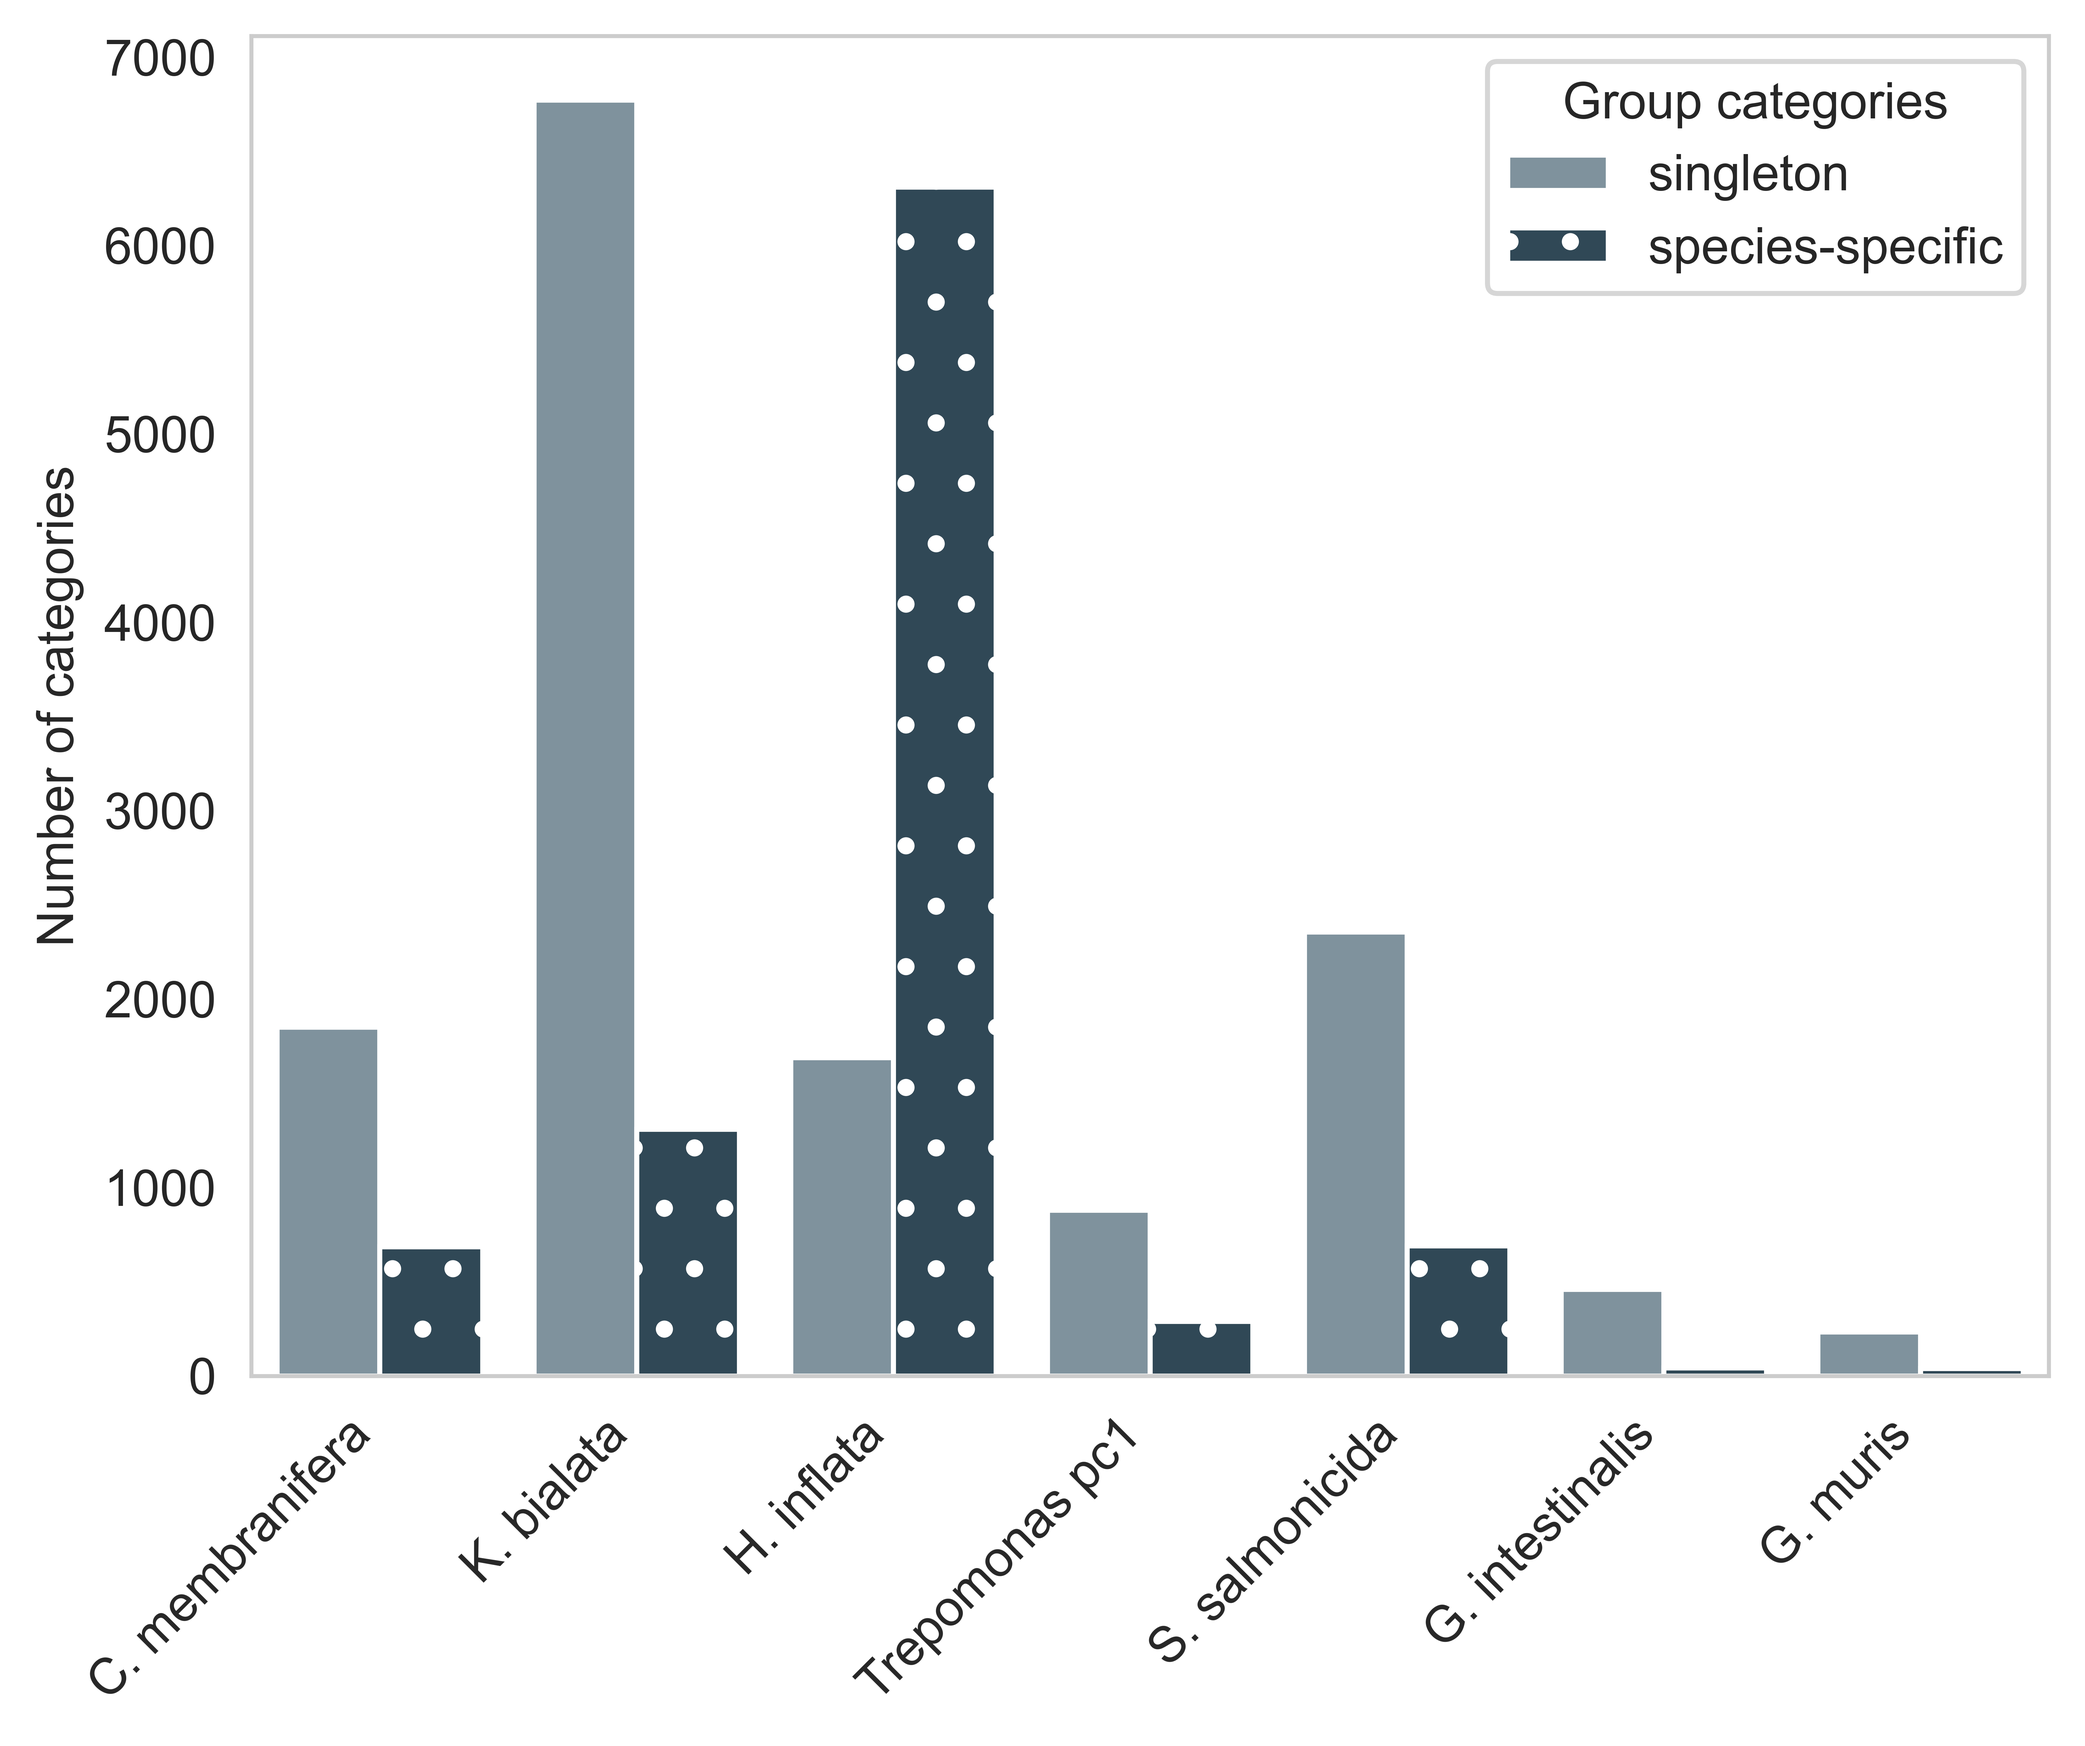
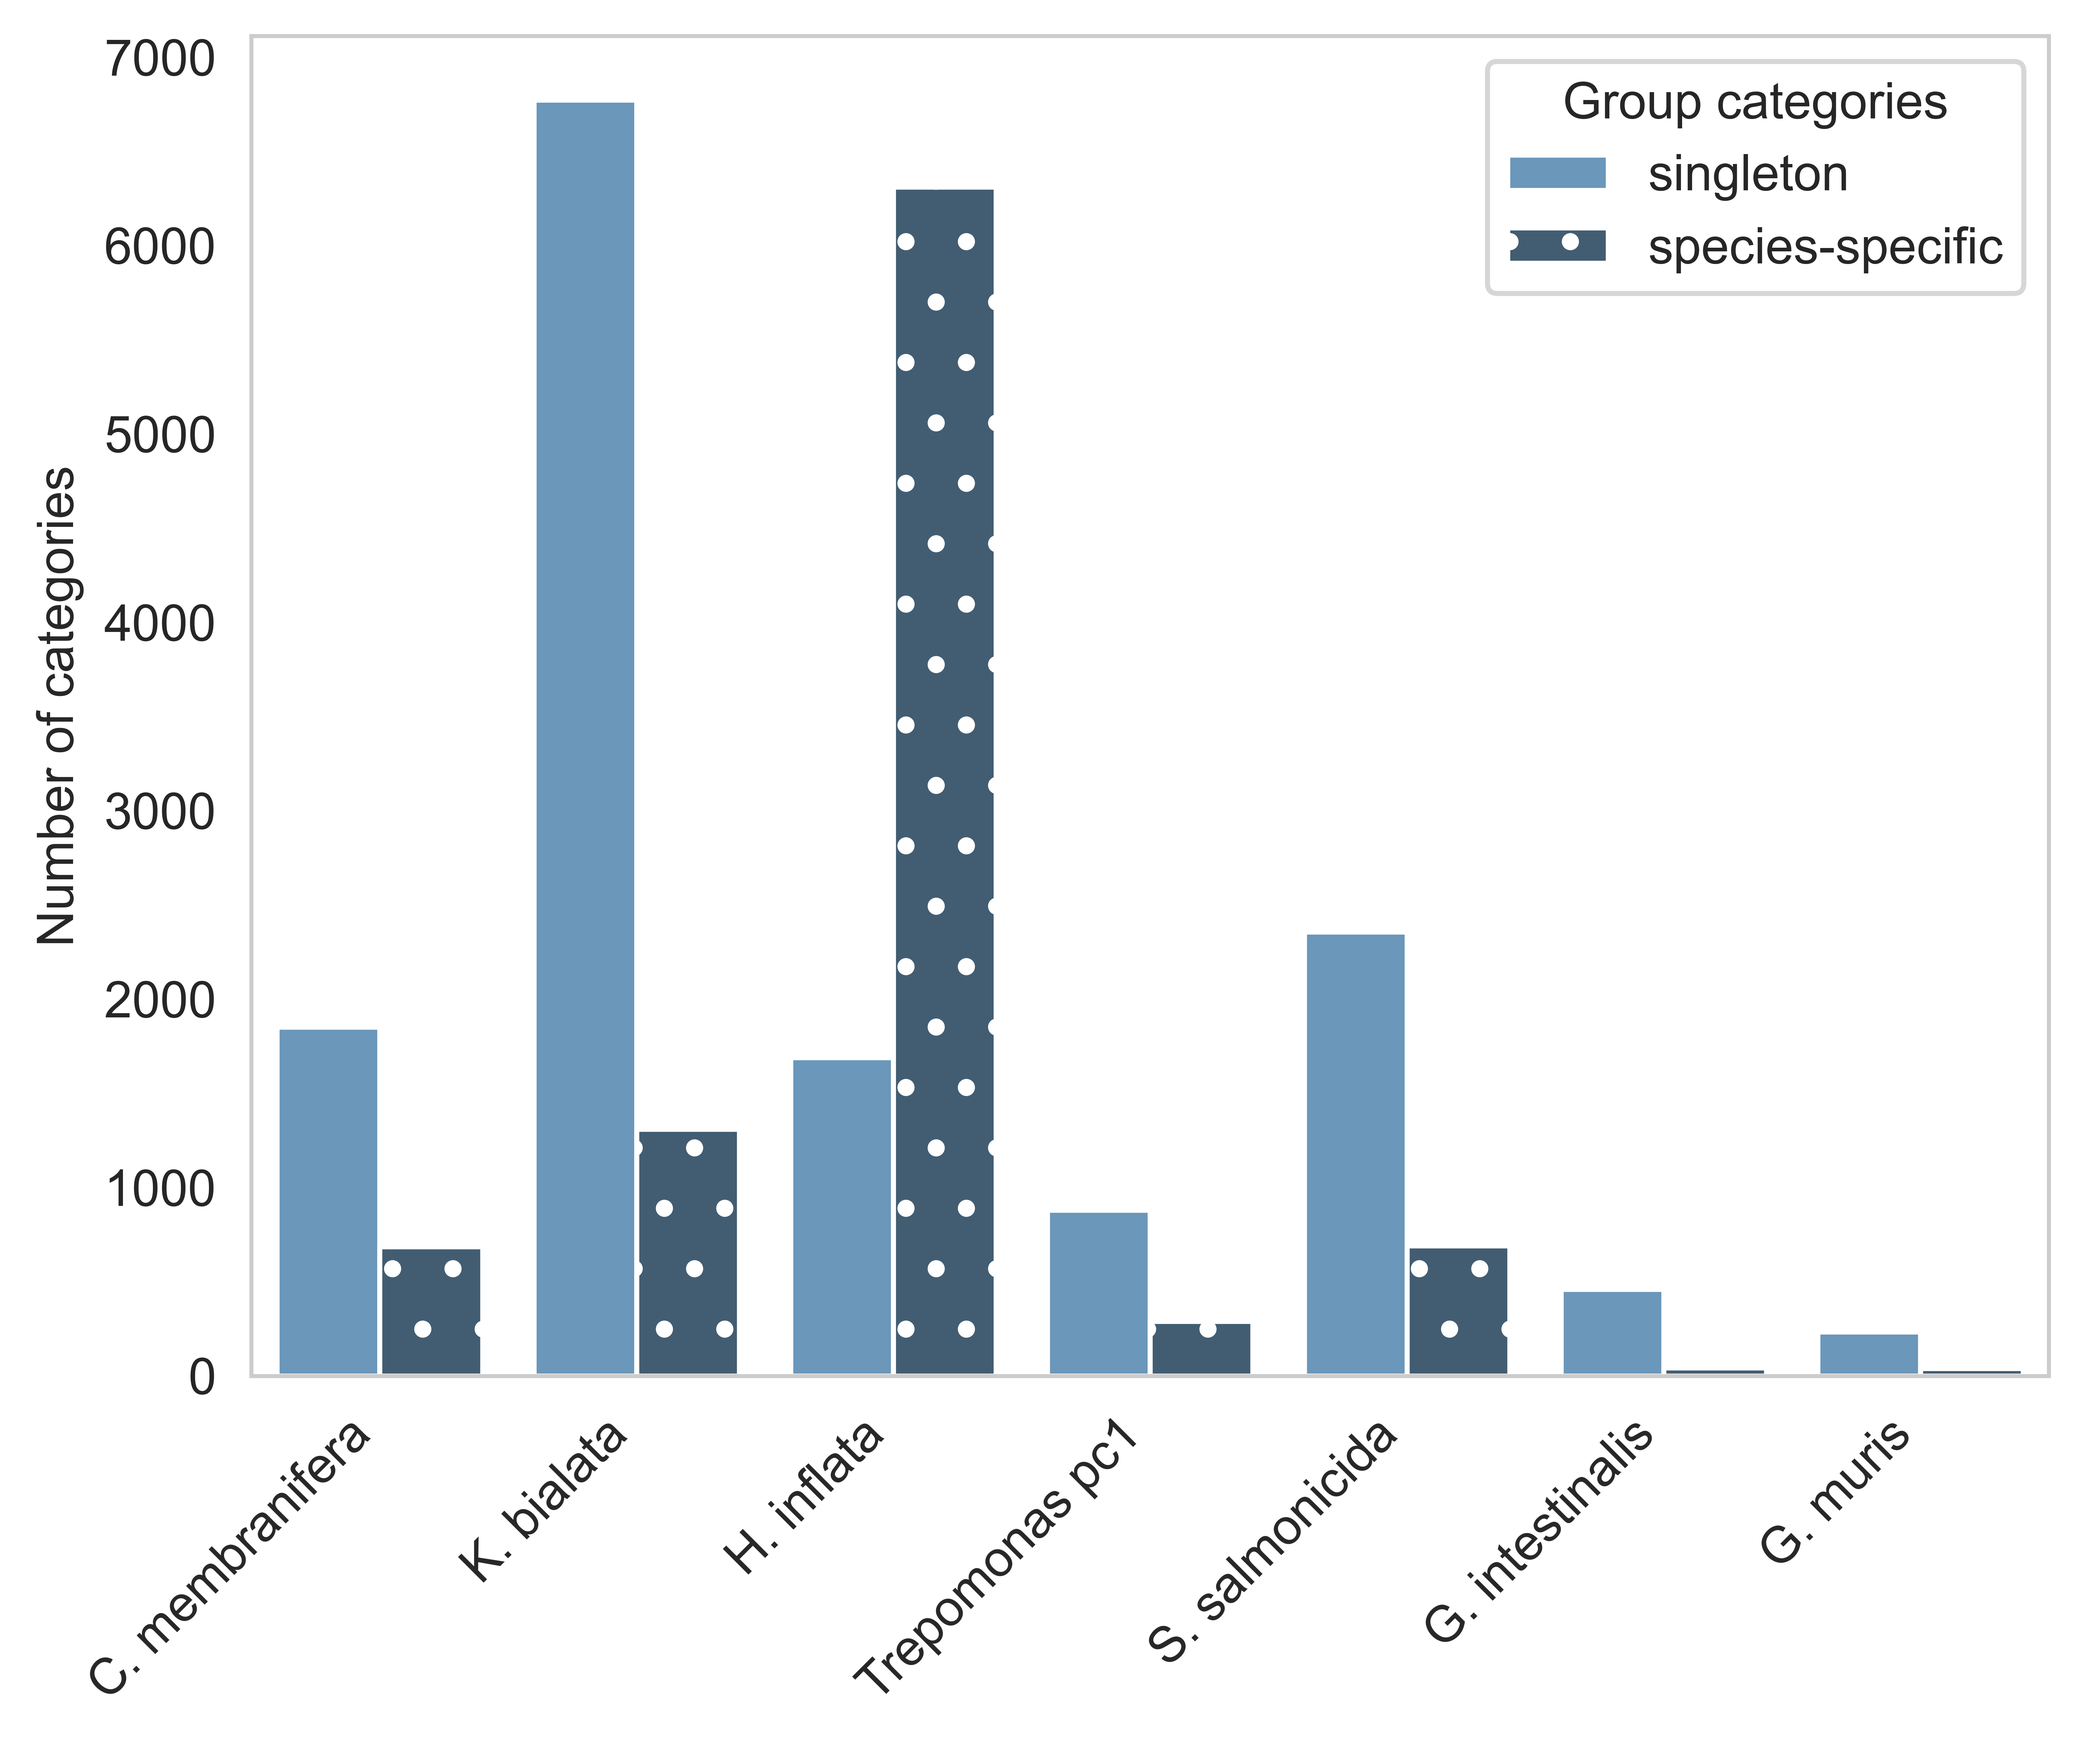
dev

Changed region(s): [[0.1246, 0.0623, 0.8097, 0.8097], [0.872, 0.7474, 0.9342, 0.8097], [0.7163, 0.0934, 0.7785, 0.1557]]

diff --git a/scripts/scratch/4_figure1a.py b/scripts/scratch/4_figure1a.py
@@ -1,0 +1,117 @@
+import pandas as pd
+from Bio import SeqIO
+import glob
+import seaborn as sns
+
+path_interpro = "/jupyter/data/interpro_annot/HIN.csv"
+path_fasta = '/Users/zeyku390/PycharmProjects/data/proteome/HIN.fa'
+
+""" Read files """
+def read_files(path):
+    list_files = glob.glob(path)
+    dic = {}
+    for element in list_files:
+        i = element.split(".")[0]
+        i = i.split("/")[-1]
+        dic[i] = element
+    return dic
+
+""" Get gene ids from fasta """
+def get_id(fasta_file):
+    list_id = []
+    annot= []
+    with open(fasta_file, "r") as fasta_in:
+        for record in SeqIO.parse(fasta_in, "fasta"):
+            list_id.append(record.id)
+            annot.append(record.description)
+    df = pd.DataFrame(list(zip(list_id, annot)), columns=[0, "desc"])
+    df["desc"] = df.apply(lambda x: x["desc"].replace(x[0], "").strip(), axis=1)
+    return df #pd.DataFrame(list_id)
+
+""" Substract functional genes from hypothetical ones """
+def anti_join(x, y):
+    """Return rows in x which are not present in y"""
+    ans = pd.merge(left=x, right=y, how='left', indicator=True)
+    ans = ans.loc[ans._merge == 'left_only', :].drop(columns='_merge')
+    # ans= ans.reset_index()
+    return ans
+
+
+""" Gene ids from fasta """
+dic_id = {}
+for sp, fasta in read_files(path_fasta).items():
+    dic_id[sp] = get_id(fasta)
+
+""" Interpro annotation """
+dic_ann = {}
+for sp_ann, interpro in read_files(path_interpro).items():
+    dic_ann[sp_ann] = pd.read_csv(interpro, sep="\t", header=None).drop(columns=[1,2]).drop_duplicates(0)
+
+
+"""Functional and hypothetical proteins    """
+dic_hypo = {}
+dic_cons_hypo = {}
+dic_func = {}
+dic_bar = {}
+dic_count = {}
+for sp_ann, ann in dic_ann.items():
+    sp = sp_ann.split("_")[0]
+    dic_func[sp] = dic_ann[sp_ann]
+    dic_func[sp]["type"] = "functional"
+
+    dic_hypo[sp] = anti_join(dic_id[sp], dic_func[sp])
+    dic_hypo[sp]["type"] = "hypothetical"
+
+    dic_cons_hypo[sp] = dic_id[sp][dic_id[sp]["desc"].str.contains("Conserved hypothetical")]
+    dic_cons_hypo[sp]["type"] = "conserved_hypothetical"
+
+    dic_bar[sp]=pd.concat([dic_hypo[sp], dic_func[sp],dic_cons_hypo[sp]], axis=0)
+    dic_bar[sp]["sp"] = sp
+    dic_count[sp] = dic_bar[sp]["type"].value_counts().reset_index()
+
+    df_bar = pd.concat(dic_bar, axis=0)
+    df_count= pd.concat(dic_count, axis=0).reset_index().sort_values(by="type" ,ascending=False)
+
+
+""" Bar plot    """
+sns.set_style("whitegrid", {'axes.grid': False})
+#pal = sns.dark_palette("#69d", n_colors=2, reverse=False)
+
+colors = ["#7A93A2", "#2A4A5C", "#8c510a"]
+pal = sns.set_palette(sns.color_palette(colors))
+
+#, fill=False, hatch='/'
+order = ["carpe","kbiala","HIN","trepo", "spiro","wb", "muris"]
+
+
+#df_count_= df_count[(df_count["index"] == "functional") | (df_count["index"] == "hypothetical")]
+func = df_count[df_count["index"] == 'functional']
+ax1 = sns.barplot(x='level_0', y='type', hue='index', data=func,  order=order , palette=pal)
+
+#hypo= df_count[(df_count["index"] == "conserved_hypothetical") | (df_count["index"] == "hypothetical")]
+#hypo = df_count[df_count["index"] == 'hypothetical']
+ax2 = sns.barplot(x='level_0', y='type', hue='index', data=hypo,  order=order, fill=False, edgecolor="#2A4A5C")
+
+#cons = df_count[df_count["index"] == 'conserved_hypothetical']
+#cons = cons[cons["index"] == 'conserved_hypothetical']
+#ax3 = sns.barplot(x='level_0', y='type', hue='index', data=cons,  order=order, fill=False, edgecolor="#2A4A5C")
+
+
+
+"""hatches1 = [ "", "..", ""]
+# Loop over the bars
+for bars, hatch in zip(ax1.containers, hatches1):
+    # Set a different hatch for each group of bars
+    for bar in bars:
+        bar.set_hatch(hatch)
+"""
+
+ax1.legend().set_title("Interproscan annotations")
+ax1.set_xlabel('')
+ax1.set_ylabel('Number of genes')
+ax1.set_xticklabels(['C. membranifera',  'K. bialata', 'H. inflata', 'Trepomonas pc1', 'S. salmonicida', 'G. intestinalis', 'G. muris'], rotation=45, style='italic',ha="right")
+
+plot = ax1.get_figure()
+plot.show()
+plot.savefig('/Users/zeyku390/PycharmProjects/H_inflata/plots/figure1a.png', format="png",  bbox_inches='tight', dpi=1200)
+

diff --git a/scripts/4_figure1a_.py b/scripts/4_figure1a_.py
@@ -19,10 +19,14 @@ def read_files(path):
 """ Get gene ids from fasta """
 def get_id(fasta_file):
     list_id = []
+    annot= []
     with open(fasta_file, "r") as fasta_in:
         for record in SeqIO.parse(fasta_in, "fasta"):
             list_id.append(record.id)
-    return  pd.DataFrame(list_id)
+            annot.append(record.description)
+    df = pd.DataFrame(list(zip(list_id, annot)), columns=[0, "desc"])
+    df["desc"] = df.apply(lambda x: x["desc"].replace(x[0], "").strip(), axis=1)
+    return df #pd.DataFrame(list_id)
 
 """ Substract functional genes from hypothetical ones """
 def anti_join(x, y):
@@ -31,17 +35,6 @@ def anti_join(x, y):
     ans = ans.loc[ans._merge == 'left_only', :].drop(columns='_merge')
     # ans= ans.reset_index()
     return ans
-
-"""def get_hypo(dic,sp):
-    dic_hypo = {}
-    dic_func = {}
-
-    dic_func[sp] = dic[sp]
-    dic_func[sp]["type"] = "functional"
-    dic_hypo[sp] = anti_join(dic_id[sp], dic_func[sp])
-    dic_hypo[sp]["type"] = "hypothetical"
-    return dic_hypo, dic_func
-"""
 
 
 """ Gene ids from fasta """
@@ -57,8 +50,9 @@ for sp_ann, interpro in read_files(path_interpro).items():
 
 """Functional and hypothetical proteins    """
 dic_hypo = {}
+dic_cons_hypo = {}
 dic_func = {}
-dic_upset = {}
+dic_bar = {}
 dic_count = {}
 for sp_ann, ann in dic_ann.items():
     sp = sp_ann.split("_")[0]
@@ -68,11 +62,14 @@ for sp_ann, ann in dic_ann.items():
     dic_hypo[sp] = anti_join(dic_id[sp], dic_func[sp])
     dic_hypo[sp]["type"] = "hypothetical"
 
-    dic_upset[sp]=pd.concat([dic_hypo[sp], dic_func[sp]], axis=0)
-    dic_upset[sp]["sp"] = sp
-    dic_count[sp] = dic_upset[sp]["type"].value_counts().reset_index()
+    dic_cons_hypo[sp] = dic_id[sp][dic_id[sp]["desc"].str.contains("Conserved hypothetical")]
+    dic_cons_hypo[sp]["type"] = "conserved_hypothetical"
 
-    df_upset = pd.concat(dic_upset, axis=0)
+    dic_bar[sp]=pd.concat([dic_hypo[sp], dic_func[sp],dic_cons_hypo[sp]], axis=0)
+    dic_bar[sp]["sp"] = sp
+    dic_count[sp] = dic_bar[sp]["type"].value_counts().reset_index()
+
+    df_bar = pd.concat(dic_bar, axis=0)
     df_count= pd.concat(dic_count, axis=0).reset_index().sort_values(by="type" ,ascending=False)
 
 
@@ -80,30 +77,22 @@ for sp_ann, ann in dic_ann.items():
 sns.set_style("whitegrid", {'axes.grid': False})
 #pal = sns.dark_palette("#69d", n_colors=2, reverse=False)
 
-colors = ["#7A93A2", "#2A4A5C"]
+colors = [ "#2A4A5C",  "#7A93A2", "#41738F"]
 pal = sns.set_palette(sns.color_palette(colors))
 
 #, fill=False, hatch='/'
 order = ["carpe","kbiala","HIN","trepo", "spiro","wb", "muris"]
-
-ax = sns.barplot(x='level_0', y='type', hue='index', data=df_count, palette=pal, order=order)
-
-
-"""hatches = [ "", "///" ]
-# Loop over the bars
-for bars, hatch in zip(ax.containers, hatches):
-    # Set a different hatch for each group of bars
-    for bar in bars:
-        bar.set_hatch(hatch)"""
+hue_order= ["functional", "hypothetical", "conserved_hypothetical"]
+#ax1 = sns.barplot(x='level_0', y='type', hue='index', data=df_count, palette=pal, order=order, fill=False, edgecolor="#2A4A5C")
+ax1 = sns.barplot(x='level_0', y='type', hue='index', data=df_count, palette=pal, order=order, hue_order=hue_order)
 
 
+ax1.legend(loc='upper right').set_title("annotations" )
+ax1.set_xlabel('')
+ax1.set_ylabel('Number of genes')
+ax1.set_xticklabels(['C. membranifera',  'K. bialata', 'H. inflata', 'Trepomonas pc1', 'S. salmonicida', 'G. intestinalis', 'G. muris'], rotation=45, style='italic',ha="right")
 
-ax.legend().set_title("Interproscan annotations")
-ax.set_xlabel('')
-ax.set_ylabel('Number of genes')
-ax.set_xticklabels(['C. membranifera',  'K. bialata', 'H. inflata', 'Trepomonas pc1', 'S. salmonicida', 'G. intestinalis', 'G. muris'], rotation=45, style='italic',ha="right")
-
-plot = ax.get_figure()
+plot = ax1.get_figure()
 plot.show()
-plot.savefig('/Users/zeyku390/PycharmProjects/H_inflata/plots/figure1a.png', format="png",  bbox_inches='tight', dpi=1200)
+plot.savefig('/Users/zeyku390/PycharmProjects/H_inflata/plots/figure1a_.png', format="png",  bbox_inches='tight', dpi=1200)
 

diff --git a/scripts/6_figure1e.py b/scripts/6_figure1e.py
@@ -81,7 +81,8 @@ upset1 = UpSet(df_stack,
               sort_categories_by=None,
              intersection_plot_elements=10,
               sort_by="degree",
-               facecolor="#2A4A5C")  # disable the default bar chart
+               #facecolor="#2A4A5C",
+               facecolor="#3A5E7A")  # disable the default bar chart
 
 
 sns.set_style("whitegrid", {'axes.grid': False})

diff --git a/scripts/7_figure1d.py b/scripts/7_figure1d.py
@@ -23,7 +23,7 @@ sns.set()
 #sns.set(rc={'figure.figsize': (10, 5)})
 sns.set_style("whitegrid", {'axes.grid': False})
 #pal = sns.dark_palette("#69d", n_colors=1, reverse=True)
-colors = ["#2A4A5C"]
+colors = ['#01665e']
 pal = sns.set_palette(sns.color_palette(colors))
 
 ax= sns.histplot(data=plot1['HIN_y'], discrete=True, palette=pal)

diff --git a/scripts/8_figure1c.py b/scripts/8_figure1c.py
@@ -55,7 +55,7 @@ df_plot = pd.concat(dic_count, axis=0).sort_values(by=["index", "Type"], ascendi
 
 sns.set_style("whitegrid", {'axes.grid': False})
 #pal = sns.dark_palette("#69d", n_colors=2, reverse=True)
-colors = ["#7A93A2", "#2A4A5C"]
+colors = ["#5D99C7", "#3A5E7A"]
 
 pal = sns.set_palette(sns.color_palette(colors))
 
